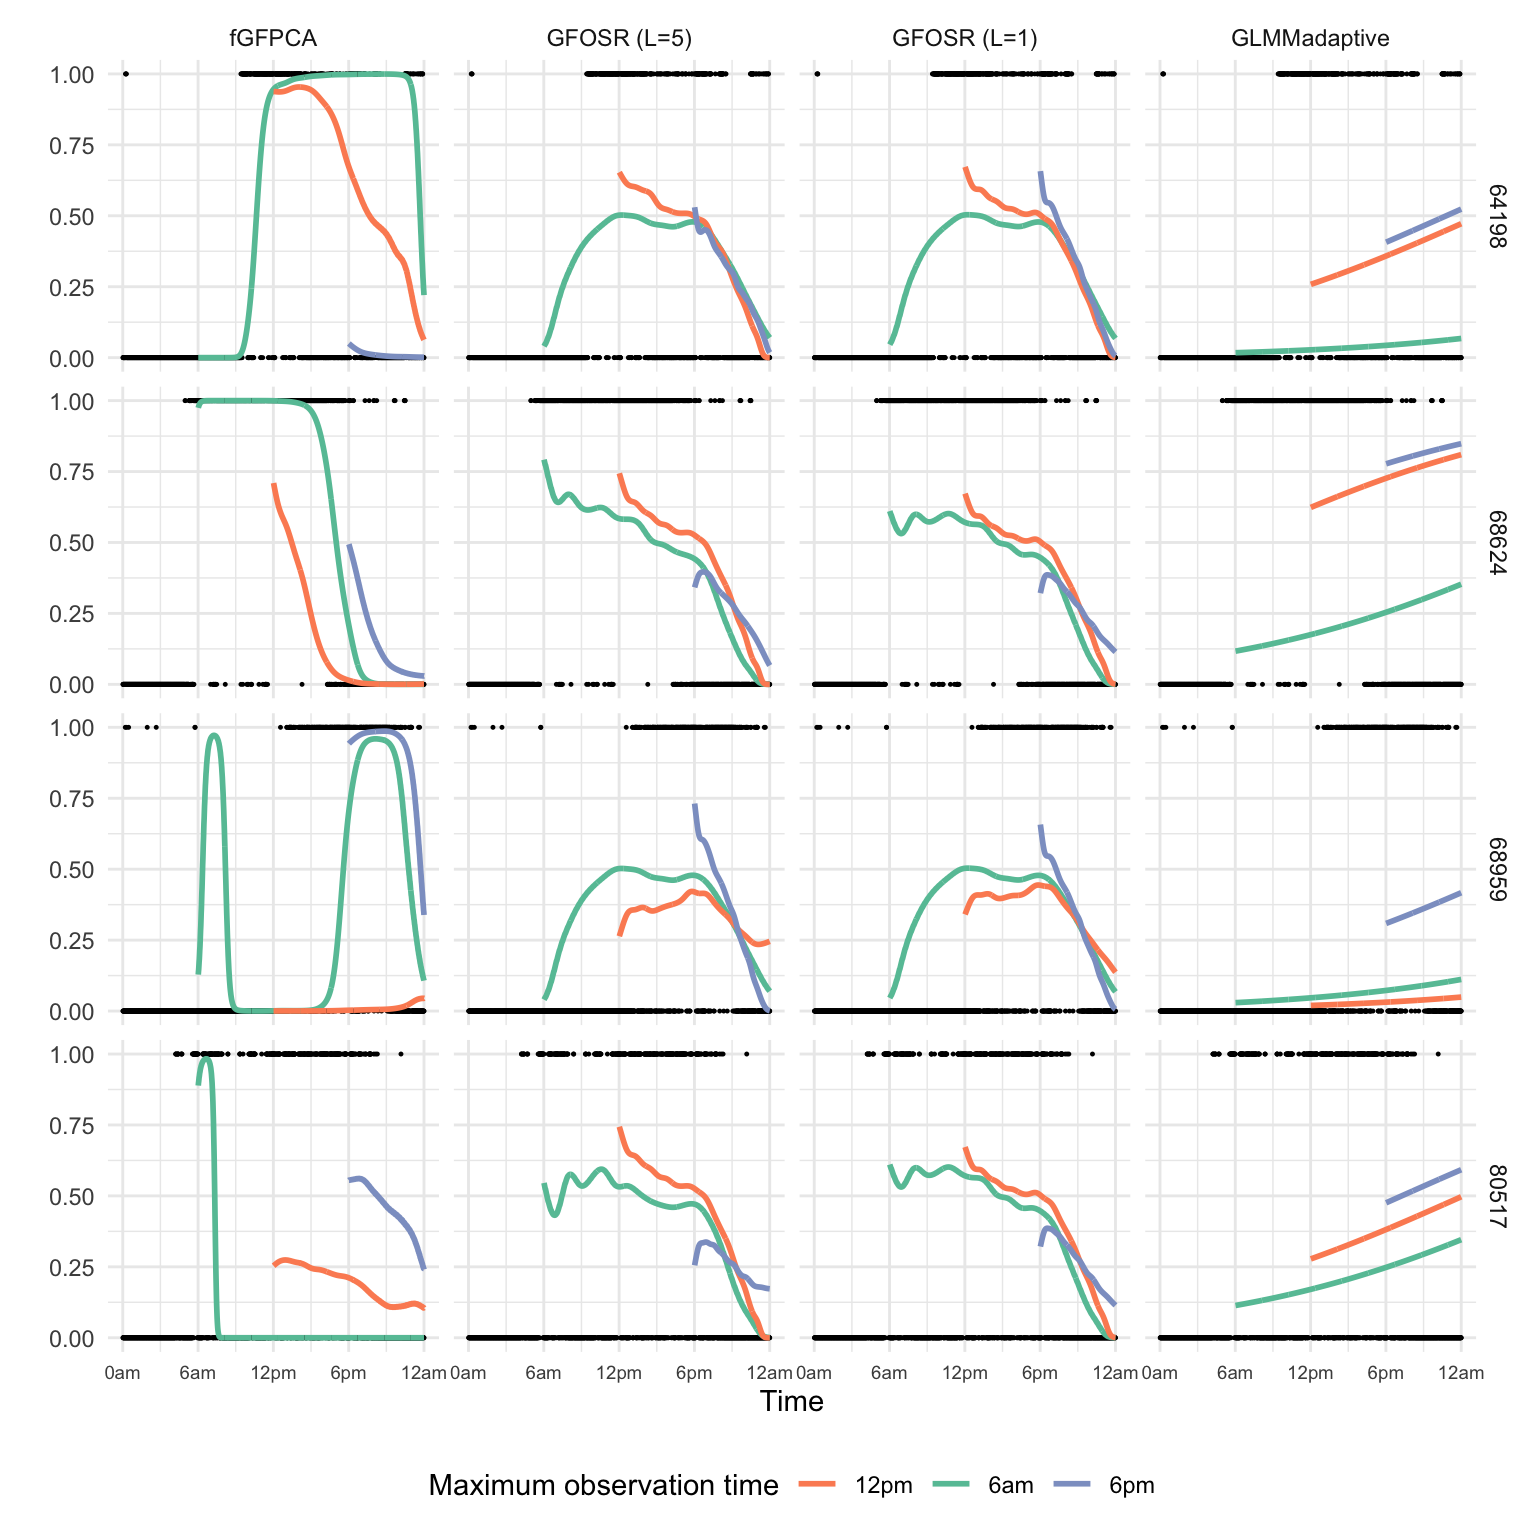
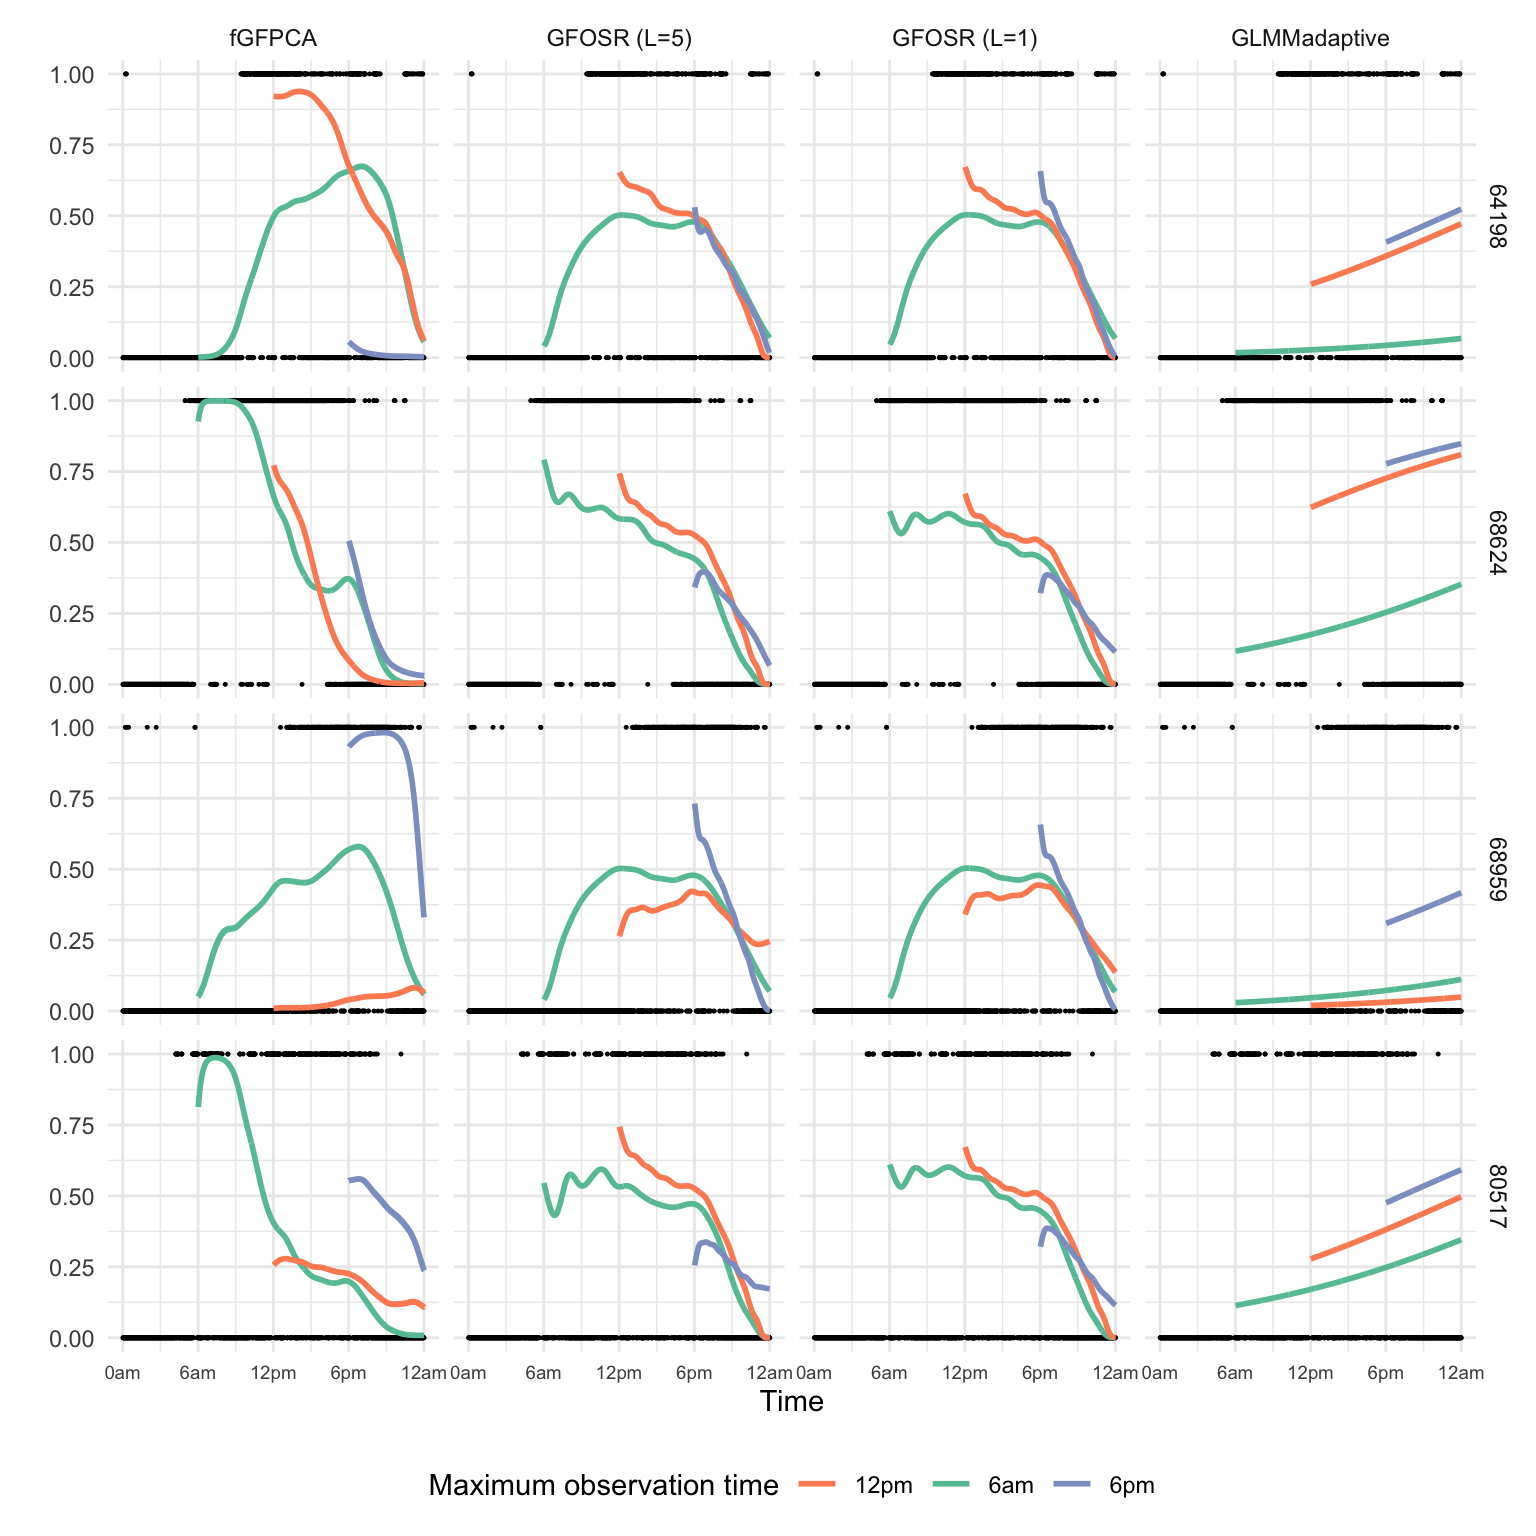
rerun all simulation and data applications

diff --git a/Docs/manuscript.html b/Docs/manuscript.html
@@ -11,7 +11,7 @@
 
 <meta name="author" content="Ying Jin" />
 
-<meta name="date" content="2024-05-24" />
+<meta name="date" content="2024-05-27" />
 
 <title>Manuscript progress report</title>
 
@@ -254,7 +254,7 @@ div.tocify {
 
 <h1 class="title toc-ignore">Manuscript progress report</h1>
 <h4 class="author">Ying Jin</h4>
-<h4 class="date">2024-05-24</h4>
+<h4 class="date">2024-05-27</h4>
 
 </div>
 
@@ -824,7 +824,7 @@ Window
 (0.2, 0.4]
 </td>
 <td style="text-align:right;">
-146.407
+146.405
 </td>
 <td style="text-align:right;">
 </td>
@@ -865,10 +865,10 @@ Window
 (0.4, 0.6]
 </td>
 <td style="text-align:right;">
-183.967
+183.965
 </td>
 <td style="text-align:right;">
-74.977
+74.979
 </td>
 <td style="text-align:right;">
 </td>
@@ -910,13 +910,13 @@ Window
 (0.6, 0.8]
 </td>
 <td style="text-align:right;">
-218.265
+218.264
 </td>
 <td style="text-align:right;">
-49.275
+49.287
 </td>
 <td style="text-align:right;">
-15.776
+15.788
 </td>
 <td style="text-align:right;">
 </td>
@@ -959,16 +959,16 @@ Window
 (0.8, 1.0]
 </td>
 <td style="text-align:right;">
-108.918
+108.914
 </td>
 <td style="text-align:right;">
-77.981
+77.985
 </td>
 <td style="text-align:right;">
-17.747
+17.759
 </td>
 <td style="text-align:right;">
-12.005
+12.018
 </td>
 <td style="text-align:right;">
 290.982
@@ -1232,7 +1232,7 @@ Time
 fGFPCA
 </td>
 <td style="text-align:right;">
-2.317
+2.584
 </td>
 </tr>
 <tr>
@@ -1595,7 +1595,7 @@ Window
 (0.2, 0.4]
 </td>
 <td style="text-align:right;">
-150.641
+150.636
 </td>
 <td style="text-align:right;">
 </td>
@@ -1636,10 +1636,10 @@ Window
 (0.4, 0.6]
 </td>
 <td style="text-align:right;">
-188.065
+188.095
 </td>
 <td style="text-align:right;">
-77.380
+77.401
 </td>
 <td style="text-align:right;">
 </td>
@@ -1681,13 +1681,13 @@ Window
 (0.6, 0.8]
 </td>
 <td style="text-align:right;">
-224.001
+224.067
 </td>
 <td style="text-align:right;">
-51.533
+51.634
 </td>
 <td style="text-align:right;">
-16.879
+16.969
 </td>
 <td style="text-align:right;">
 </td>
@@ -1730,16 +1730,16 @@ Window
 (0.8, 1.0]
 </td>
 <td style="text-align:right;">
-112.163
+112.190
 </td>
 <td style="text-align:right;">
-81.368
+81.407
 </td>
 <td style="text-align:right;">
-19.592
+19.701
 </td>
 <td style="text-align:right;">
-13.399
+13.485
 </td>
 <td style="text-align:right;">
 301.165
@@ -2004,7 +2004,7 @@ Time
 fGFPCA
 </td>
 <td style="text-align:right;">
-1.629
+2.415
 </td>
 </tr>
 <tr>
@@ -2203,7 +2203,7 @@ Window
 6am-12pm
 </td>
 <td style="text-align:right;">
-0.674
+0.701
 </td>
 <td style="text-align:right;">
 </td>
@@ -2236,10 +2236,10 @@ Window
 12pm-6pm
 </td>
 <td style="text-align:right;">
-0.529
+0.530
 </td>
 <td style="text-align:right;">
-0.663
+0.708
 </td>
 <td style="text-align:right;">
 </td>
@@ -2273,13 +2273,13 @@ Window
 6pm-12am
 </td>
 <td style="text-align:right;">
-0.614
+0.708
 </td>
 <td style="text-align:right;">
-0.627
+0.679
 </td>
 <td style="text-align:right;">
-0.77
+0.774
 </td>
 <td style="text-align:right;">
 0.677
